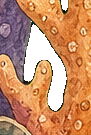
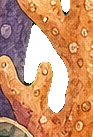
round6b: extreme-zoom keying — global green cap, notch olive kill, dark-khaki neutralize (R26)

diff --git a/scripts/green_purge.py b/scripts/green_purge.py
@@ -81,6 +81,64 @@ def main() -> int:
     stats["band_green_px"] = int(band_green.sum())
     repaint(img, band_green)
 
+    # with no green art guaranteed, no edge pixel may lean green AT ALL:
+    # clamp g <= max(r,b) across the whole edge band (kills the dark olive
+    # fringe at junction notches that survives every threshold pass)
+    if args.no_green_art:
+        rgb = img[..., :3].astype(np.int16)
+        g = rgb[..., 1]
+        other = np.maximum(rgb[..., 0], rgb[..., 2])
+        # edge band: no green lean at all; interior: cap the lean at +8 so
+        # neutral washes keep their grain but nothing reads green anywhere
+        cap = np.where(band, other, other + 8)
+        tinge = (img[..., 3] > 0) & (g > cap)
+        stats["band_declamp_px"] = int((tinge & band).sum())
+        stats["global_declamp_px"] = int((tinge & ~band).sum())
+        rgb[..., 1] = np.minimum(g, np.where(img[..., 3] > 0, cap, g))
+        img[..., :3] = np.clip(rgb, 0, 255).astype(np.uint8)
+
+        # dark-olive notch kill: deep concave junctions hold dark key blends
+        # that read khaki (g ~ r, low blue) — legit dark ink is warm (r > g).
+        # repaint them from neighboring art
+        rgb = img[..., :3].astype(np.int16)
+        r_, g_, b_ = rgb[..., 0], rgb[..., 1], rgb[..., 2]
+        olive = (
+            band
+            & (g_ > b_ + 20)
+            & (g_ > r_ - 12)
+            & (g_ < 140)
+            & (img[..., 3] > 0)
+        )
+        # geometry restriction: only inside concave notches (regions the
+        # background swallows under morphological closing), and never near a
+        # thick olive mass (sage seaweed edges are legitimately this color)
+        fgm = img[..., 3] > 127
+        notch = ndi.binary_closing(~fgm, structure=np.ones((9, 9), bool)) & fgm
+        olive_mass = (img[..., 3] > 0) & (g_ > b_ + 20) & (g_ > r_ - 12)
+        inscribed = ndi.distance_transform_edt(olive_mass)
+        thick_olive = inscribed >= 6
+        near_seaweed = ndi.distance_transform_edt(~thick_olive) <= 12
+        olive &= notch & ~near_seaweed
+        stats["olive_notch_px"] = int(olive.sum())
+        repaint(img, olive)
+
+        # near-black khaki neutralize: notch shadows like (44,44,3) read dark
+        # olive; raising blue toward green at this darkness is invisible but
+        # kills the green cast. Pure color-space fix, band-wide, no repaint.
+        rgb = img[..., :3].astype(np.int16)
+        r_, g_, b_ = rgb[..., 0], rgb[..., 1], rgb[..., 2]
+        dark_khaki = (
+            band
+            & (img[..., 3] > 0)
+            & (np.maximum(r_, g_) < 95)
+            & (g_ > b_ + 15)
+            & (g_ >= r_ - 12)
+        )
+        stats["dark_khaki_px"] = int(dark_khaki.sum())
+        rgb[..., 2] = np.where(dark_khaki, np.maximum(b_, g_ - 8), b_)
+        rgb[..., 1] = np.where(dark_khaki, np.minimum(g_, r_ + 4), rgb[..., 1])
+        img[..., :3] = np.clip(rgb, 0, 255).astype(np.uint8)
+
     # 3. global near-key kill, small components only
     lab = rgb2lab(img[..., :3].astype(np.float32) / 255.0)
     de = deltaE_ciede2000(lab, key_lab)
